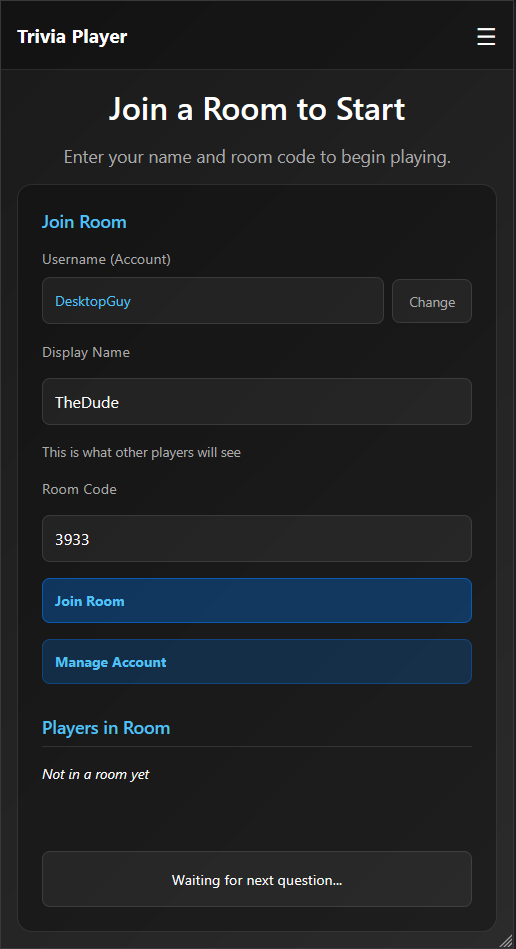
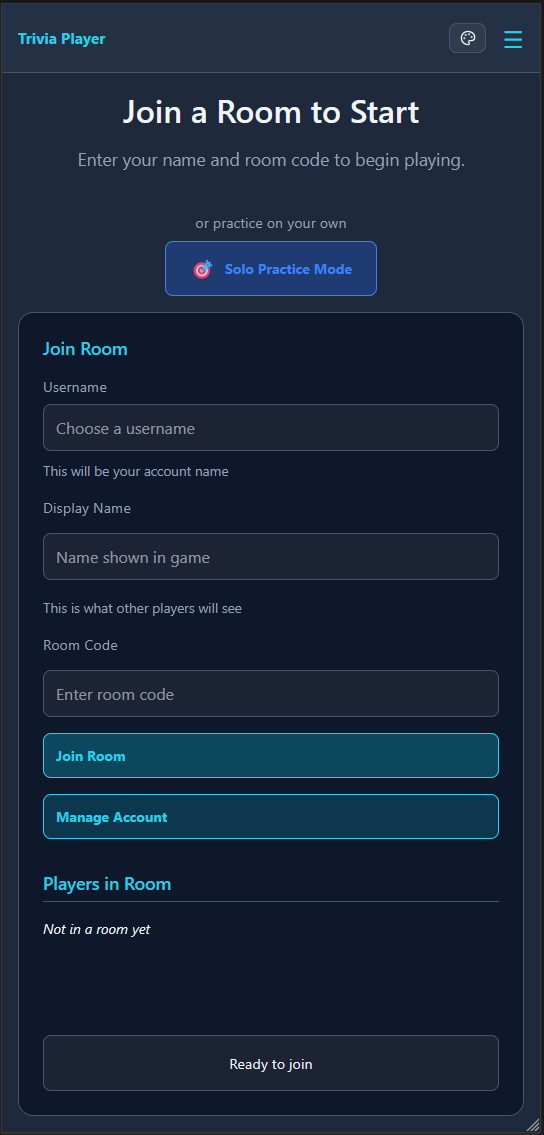
docs: Update README and About panel for v5.4.4 features
- Update README file structure with new controllers, routes, services, composables
- Add Auto-Mode Timer System features to For Presenters section
- Add Solo Play Mode features to For Players section
- Add Quiz Visibility Controls and Timer Settings to For Administrators
- Remove "Timer-based questions" from Future Features (now implemented)
- Update AboutPanel with v5.2-v5.4 features (2FA, Question Bank, Auto-Mode, Solo Play)
- Add 11 new screenshots (question-bank, user-management, 2FA-login, live-standings,
  confirmation-modal, desktop-player-page, player-countdown, player-standings,
  theme-selection, solo-mode-landing, solo-mode-playing)
- Update existing screenshots with fresh captures
- Add cache busting version parameter (v=202602) to all screenshot references

diff --git a/app/src/components/admin/AboutPanel.vue b/app/src/components/admin/AboutPanel.vue
@@ -15,15 +15,16 @@
         <ul>
           <li><AppIcon name="check" size="sm" class="feature-check" /> Vue 3 modern interface</li>
           <li><AppIcon name="check" size="sm" class="feature-check" /> Real-time quiz presentations</li>
+          <li><AppIcon name="check" size="sm" class="feature-check" /> Auto-Mode with server-side timers</li>
+          <li><AppIcon name="check" size="sm" class="feature-check" /> Solo Play mode for self-study</li>
+          <li><AppIcon name="check" size="sm" class="feature-check" /> Question Bank with tags</li>
+          <li><AppIcon name="check" size="sm" class="feature-check" /> Duplicate detection & merge</li>
           <li><AppIcon name="check" size="sm" class="feature-check" /> Live leaderboards & rankings</li>
           <li><AppIcon name="check" size="sm" class="feature-check" /> Multi-admin support with isolation</li>
-          <li><AppIcon name="check" size="sm" class="feature-check" /> Player connection monitoring</li>
-          <li><AppIcon name="check" size="sm" class="feature-check" /> Player authentication & accounts</li>
-          <li><AppIcon name="check" size="sm" class="feature-check" /> Excel bulk import</li>
-          <li><AppIcon name="check" size="sm" class="feature-check" /> Session resumption</li>
+          <li><AppIcon name="check" size="sm" class="feature-check" /> Two-factor authentication (2FA)</li>
+          <li><AppIcon name="check" size="sm" class="feature-check" /> Session export (CSV)</li>
+          <li><AppIcon name="check" size="sm" class="feature-check" /> Excel bulk import with review</li>
           <li><AppIcon name="check" size="sm" class="feature-check" /> Mobile-optimized interface</li>
-          <li><AppIcon name="check" size="sm" class="feature-check" /> Spectator display mode</li>
-          <li><AppIcon name="check" size="sm" class="feature-check" /> Auto-reveal when all answer</li>
           <li><AppIcon name="check" size="sm" class="feature-check" /> Automatic database migrations</li>
         </ul>
       </div>
@@ -81,10 +82,10 @@
         TriviaForge is a modern, real-time trivia game platform designed for educators, event organizers, and trivia enthusiasts. It enables interactive quiz sessions with instant feedback, live leaderboards, and comprehensive player analytics.
       </p>
       <p>
-        With features like session resumption, user authentication, player connection monitoring, and mobile-optimized interfaces, TriviaForge provides a seamless experience for presenters and players. Whether you're running classroom quizzes, corporate events, or casual game nights, TriviaForge adapts to your needs.
+        With features like Auto-Mode (server-side timers with pause/resume), Solo Play for self-study, a centralized Question Bank with tagging and duplicate detection, session export, and two-factor authentication, TriviaForge provides a complete quiz management solution. Whether you're running classroom quizzes, corporate events, or casual game nights, TriviaForge adapts to your needs.
       </p>
       <p>
-        Built with modern web technologies including Vue 3, Vite, Node.js, Socket.IO for real-time communication, and PostgreSQL for robust data management, TriviaForge ensures reliability, performance, and data integrity. The v5.x series introduces multi-admin support with session isolation, automatic database migrations, and seamless upgrades between versions.
+        Built with modern web technologies including Vue 3, Vite, Node.js, Socket.IO for real-time communication, and PostgreSQL for robust data management, TriviaForge ensures reliability, performance, and data integrity. The v5.x series introduces multi-admin support, automatic database migrations, Question Bank management, Auto-Mode timer system, and Solo Play mode.
       </p>
     </div>
 

diff --git a/README.md b/README.md
@@ -16,20 +16,22 @@ A production-ready, real-time interactive trivia game platform built with **Vue 
 - 🐳 **Easy Deploy**: Single-command Docker Compose setup with automatic database initialization
 
 <!-- Screenshot Placeholder: Landing Page -->
-![Landing Page](screenshots/landing-page.png?v=202511)
+![Landing Page](screenshots/landing-page.png?v=202602)
 
 <!-- Screenshot Placeholder: Main Game Interface -->
-![TriviaForge Main Interface](screenshots/main-interface.png?v=202511)
+![TriviaForge Main Interface](screenshots/main-interface.png?v=202602)
 
 ## Features
 
 ### For Administrators
 - **Quiz Management**: Create, edit, and delete custom quizzes with an intuitive interface
+- **Quiz Visibility Controls**: Toggle quizzes for Live mode (presenter-led) and/or Solo mode (self-study) with visual badges
 - **Question Bank**: Centralized question management across all quizzes with search, filter, and archive capabilities
 - **Tag System**: Organize questions with customizable color-coded tags
 - **Duplicate Detection**: Find and manage duplicate questions with similarity-based detection and merge tools
 - **Question Types**: Support for Multiple Choice and True/False questions
 - **Image Support**: Add images to questions via file upload or external URL
+- **Timer Settings**: Configure per-quiz question timers and reveal delays for auto-mode
 - **Drag-and-Drop Reordering**: Reorganize questions and answer choices with visual drag-and-drop or arrow buttons
 - **Smart Answer Tracking**: Correct answer automatically updates when reordering choices
 - **Excel Import**: Bulk import quizzes from professionally formatted Excel templates with duplicate review (supports 2-10 answer choices)
@@ -42,10 +44,34 @@ A production-ready, real-time interactive trivia game platform built with **Vue 
 - **Account Settings**: Update email and password from any admin page
 
 <!-- Screenshot Placeholder: Admin Dashboard -->
-![Admin Dashboard](screenshots/admin-dashboard.png?v=202511)
+![Admin Dashboard](screenshots/admin-dashboard.png?v=202602)
+
+<table>
+  <tr>
+    <td width="33%" align="center">
+      <img src="screenshots/question-bank.png?v=202602" alt="Question Bank" width="100%"/>
+      <br/>
+      <em>Question Bank</em>
+    </td>
+    <td width="33%" align="center">
+      <img src="screenshots/user-management.png?v=202602" alt="User Management" width="100%"/>
+      <br/>
+      <em>User Management</em>
+    </td>
+    <td width="33%" align="center">
+      <img src="screenshots/2FA-login.png?v=202602" alt="Two-Factor Authentication" width="100%"/>
+      <br/>
+      <em>Two-Factor Authentication</em>
+    </td>
+  </tr>
+</table>
 
 ### For Presenters
 - **Live Quiz Control**: Present questions, reveal answers, and navigate through quizzes in real-time
+- **Auto-Mode Timer System**: Server-side timers run independently of presenter's browser with pause/resume support
+- **Configurable Timers**: Question timer (10-120 seconds) and reveal delay (2-30 seconds) per quiz or global defaults
+- **Auto-Advance**: Automatically advance to next question after reveal delay expires
+- **Smart Timer Skip**: All players answered detection skips remaining question timer automatically
 - **Player Management**: See connected players with live status indicators, organized by connection status (connected/away/disconnected)
 - **Real-time Answer Progress**: Track how many players have answered with percentage and animated progress bar
 - **All Players Answered Notification**: Visual notification when all active players have submitted answers
@@ -59,14 +85,21 @@ A production-ready, real-time interactive trivia game platform built with **Vue 
 - **Class Performance Analytics**: View overall class statistics (total correct/incorrect, class accuracy percentage, average performance)
 
 <!-- Screenshot Placeholder: Presenter View -->
-![Presenter View](screenshots/presenter-view.png?v=202511)
+![Presenter View](screenshots/presenter-view.png?v=202602)
+
+![Live Standings](screenshots/live-standings.png?v=202602)
 
 ### For Players
 - **Mobile-Optimized Interface**: Responsive design that works seamlessly on all devices (HTTP and HTTPS)
+- **Solo Play Mode**: Self-study mode without a presenter - browse solo-enabled quizzes and play at your own pace
+- **Per-Question Timer**: Countdown timer for each question with visual progress bar
+- **Immediate Feedback**: See correct/incorrect status immediately after answering in solo mode
+- **Results Summary**: Detailed breakdown of performance with per-question review after completing a quiz
+- **Guest Solo Play**: No account required - play solo quizzes as a guest
 - **Persistent Player Identity**: UUID-based PlayerID stored in localStorage for seamless reconnection across sessions
 - **Wake Lock Support**: Keeps mobile screens on during games (Chrome 84+, Safari 16.4+) with visual indicator
 - **Enhanced Connection Stability**: Infinite reconnection attempts with intelligent page visibility detection (30-second debounce)
-- **Real-time Feedback**: Instant answer submission and result display
+- **Real-time Feedback**: Instant answer submission and result display in live games
 - **Answer Locking**: Prevents re-answering after submission (even on reconnection)
 - **Smart Reconnection**: Automatically restore progress when rejoining with full state preservation via RoomSessionID
 - **Progress Tracking**: Comprehensive modal showing detailed session statistics and question-by-question history with correct/incorrect/pending status (persists across disconnections)
@@ -79,19 +112,64 @@ A production-ready, real-time interactive trivia game platform built with **Vue 
 <table>
   <tr>
     <td width="33%" align="center">
-      <img src="screenshots/player-mobile-waiting.png?v=202511" alt="Player Waiting" width="100%"/>
+      <img src="screenshots/player-mobile-waiting.png?v=202602" alt="Player Waiting" width="100%"/>
       <br/>
       <em>Player Lobby</em>
     </td>
     <td width="33%" align="center">
-      <img src="screenshots/player-questions.png?v=202511" alt="Player Answering" width="100%"/>
+      <img src="screenshots/player-questions.png?v=202602" alt="Player Answering" width="100%"/>
       <br/>
       <em>Answering Questions</em>
     </td>
     <td width="33%" align="center">
-      <img src="screenshots/player-mobile.png?v=202511" alt="Player Overview" width="100%"/>
+      <img src="screenshots/confirmation-modal.png?v=202602" alt="Answer Confirmation" width="100%"/>
       <br/>
-      <em>Interface Overview</em>
+      <em>Answer Confirmation</em>
+    </td>
+  </tr>
+  <tr>
+    <td width="33%" align="center">
+      <img src="screenshots/desktop-player-page.png?v=202602" alt="Desktop Player View" width="100%"/>
+      <br/>
+      <em>Desktop Player View</em>
+    </td>
+    <td width="33%" align="center">
+      <img src="screenshots/player-countdown.png?v=202602" alt="Countdown Timer" width="100%"/>
+      <br/>
+      <em>Countdown Timer</em>
+    </td>
+    <td width="33%" align="center">
+      <img src="screenshots/player-standings.png?v=202602" alt="Player Standings" width="100%"/>
+      <br/>
+      <em>Player Standings</em>
+    </td>
+  </tr>
+  <tr>
+    <td width="33%" align="center">
+      <img src="screenshots/theme-selection.png?v=202602" alt="Theme Selection" width="100%"/>
+      <br/>
+      <em>Theme Selection</em>
+    </td>
+    <td width="33%" align="center">
+      <img src="screenshots/player-mobile.png?v=202602" alt="Player Overview" width="100%"/>
+      <br/>
+      <em>Mobile Interface</em>
+    </td>
+    <td width="33%" align="center">
+      <img src="screenshots/solo-mode-landing.png?v=202602" alt="Solo Mode Landing" width="100%"/>
+      <br/>
+      <em>Solo Mode Landing</em>
+    </td>
+  </tr>
+  <tr>
+    <td width="33%" align="center">
+      <img src="screenshots/solo-mode-playing.png?v=202602" alt="Solo Mode Playing" width="100%"/>
+      <br/>
+      <em>Solo Mode Playing</em>
+    </td>
+    <td width="33%" align="center">
+    </td>
+    <td width="33%" align="center">
     </td>
   </tr>
 </table>
@@ -102,7 +180,7 @@ A production-ready, real-time interactive trivia game platform built with **Vue 
 - **Reveal Animations**: Engaging answer reveals with visual feedback
 
 <!-- Screenshot Placeholder: Display/Spectator View -->
-![Spectator Display](screenshots/spectator-display.png?v=202511)
+![Spectator Display](screenshots/spectator-display.png?v=202602)
 
 ## Technology Stack
 
@@ -330,7 +408,7 @@ docker-compose up -d          # Recreate containers if needed
 4. Review and save the imported quiz
 
 <!-- Screenshot Placeholder: Quiz Creation -->
-![Quiz Creation Interface](screenshots/quiz-creation.png?v=202511)
+![Quiz Creation Interface](screenshots/quiz-creation.png?v=202602)
 
 ### Running a Live Session
 
@@ -356,7 +434,7 @@ docker-compose up -d          # Recreate containers if needed
    - Session data is automatically saved
 
 <!-- Screenshot Placeholder: Live Session Flow -->
-![Live Session in Progress](screenshots/live-session.png?v=202511)
+![Live Session in Progress](screenshots/live-session.png?v=202602)
 
 ### Resuming an Interrupted Session
 
@@ -370,7 +448,7 @@ If a session is interrupted (server restart, connection loss, etc.):
 6. Continue from where you left off
 
 <!-- Screenshot Placeholder: Resume Session -->
-![Resume Session Feature](screenshots/resume-session.png?v=202511)
+![Resume Session Feature](screenshots/resume-session.png?v=202602)
 
 ### Viewing Past Sessions
 
@@ -385,7 +463,7 @@ All completed and interrupted sessions are saved and can be reviewed:
    - Individual question results
 
 <!-- Screenshot Placeholder: Past Sessions -->
-![Past Sessions History](screenshots/past-sessions.png?v=202511)
+![Past Sessions History](screenshots/past-sessions.png?v=202602)
 
 ## Testing
 
@@ -456,16 +534,19 @@ For comprehensive testing documentation, see:
 ```
 TriviaForge/
 ├── app/
-│   ├── src/              # Backend source (NEW v4.0.0 - Modular Architecture)
+│   ├── src/              # Backend source (v4.0.0+ Modular Architecture)
 │   │   ├── config/       # Configuration modules
-│   │   │   ├── constants.js # Application constants
-│   │   │   ├── database.js  # PostgreSQL connection pool
-│   │   │   └── environment.js # Environment variable access
+│   │   │   ├── constants.js    # Application constants
+│   │   │   ├── database.js     # PostgreSQL connection pool
+│   │   │   ├── environment.js  # Environment variable access
+│   │   │   └── version.js      # Centralized version management
 │   │   ├── controllers/  # REST API controllers
 │   │   │   ├── auth.controller.js
 │   │   │   ├── quiz.controller.js
 │   │   │   ├── questionBank.controller.js
 │   │   │   ├── session.controller.js
+│   │   │   ├── solo.controller.js    # Solo play REST API
+│   │   │   ├── tag.controller.js     # Tag management
 │   │   │   └── user.controller.js
 │   │   ├── middleware/   # Express middleware
 │   │   │   ├── auth.js         # Authentication middleware
@@ -475,13 +556,20 @@ TriviaForge/
 │   │   │   ├── quiz.routes.js
 │   │   │   ├── questionBank.routes.js
 │   │   │   ├── session.routes.js
+│   │   │   ├── solo.routes.js        # Solo play routes
+│   │   │   ├── tag.routes.js         # Tag routes
 │   │   │   └── user.routes.js
 │   │   ├── services/     # Business logic services
-│   │   │   ├── room.service.js    # Live room state management
-│   │   │   ├── session.service.js # Session persistence
-│   │   │   └── quiz.service.js    # Quiz data access
+│   │   │   ├── autoMode.service.js   # Server-side auto-mode timer engine
+│   │   │   ├── export.service.js     # CSV export functionality
+│   │   │   ├── quiz.service.js       # Quiz data access
+│   │   │   ├── room.service.js       # Live room state management
+│   │   │   ├── session.service.js    # Session persistence
+│   │   │   └── totp.service.js       # Two-factor authentication
 │   │   └── utils/        # Utility modules
+│   │       ├── constants.js   # Shared constants
 │   │       ├── errors.js      # Custom error classes
+│   │       ├── helpers.js     # Helper functions
 │   │       ├── responses.js   # API response helpers
 │   │       ├── similarity.js  # Duplicate detection algorithm
 │   │       └── validators.js  # Input validation
@@ -495,29 +583,40 @@ TriviaForge/
 │   │   │   ├── PresenterPage.vue
 │   │   │   ├── PlayerPage.vue
 │   │   │   ├── PlayerManagePage.vue
-│   │   │   └── DisplayPage.vue
+│   │   │   ├── DisplayPage.vue
+│   │   │   └── SoloPlayPage.vue      # Solo play mode
 │   │   ├── components/   # Reusable Vue components
 │   │   │   ├── admin/    # Admin panel components (Question Bank, Tags, Duplicates)
 │   │   │   ├── common/   # Shared components (Modal, Button, AppIcon, etc.)
 │   │   │   ├── modals/   # Modal components
-│   │   │   ├── player/   # Player page components
+│   │   │   ├── player/   # Player page components (CountdownTimer, etc.)
 │   │   │   └── presenter/ # Presenter page components
 │   │   ├── stores/       # Pinia state stores
 │   │   │   ├── auth.js
 │   │   │   ├── ui.js
-│   │   │   └── game.js
+│   │   │   ├── player.js
+│   │   │   ├── question.js
+│   │   │   ├── quiz.js
+│   │   │   └── room.js
 │   │   ├── composables/  # Vue composables
-│   │   │   ├── useSocket.js # Socket.IO integration (w/ PlayerID)
-│   │   │   └── useApi.js    # Axios wrapper (w/ CSRF)
+│   │   │   ├── useApi.js         # Axios wrapper (w/ CSRF)
+│   │   │   ├── useAuth.js        # Authentication composable
+│   │   │   ├── useLocalStorage.js # LocalStorage wrapper
+│   │   │   ├── useSocket.js      # Socket.IO integration (w/ PlayerID)
+│   │   │   ├── useSoloGame.js    # Solo play state management
+│   │   │   ├── useTheme.js       # Theme management
+│   │   │   └── useWakeLock.js    # Screen wake lock
 │   │   ├── assets/       # Static assets (CSS, images)
 │   │   └── main.css      # Global styles
 │   ├── init/             # Database initialization SQL scripts
-│   │   ├── 01-tables.sql # PostgreSQL schema
+│   │   ├── 01-tables.sql              # PostgreSQL schema
 │   │   ├── 02-migrate_timestamps.sql
-│   │   ├── ...           # Additional migrations (03-08)
-│   │   ├── 09-question-bank.sql      # Question Bank & tags
+│   │   ├── ...                        # Additional migrations (03-08)
+│   │   ├── 09-question-tags.sql       # Question Bank & tags
 │   │   ├── 10-duplicate-detection.sql # Text hash for duplicates
-│   │   └── 11-ignored-duplicate-pairs.sql # Ignored pairs
+│   │   ├── 11-ignored-duplicate-pairs.sql # Ignored pairs
+│   │   ├── 12-auto-mode-solo-play.sql # Auto-mode & solo play
+│   │   └── 13-fix-solo-guest-participants.sql # Guest participant fix
 │   ├── testing/          # Automated testing suite
 │   │   ├── README.md     # Testing suite overview
 │   │   ├── TESTING.md    # Complete testing guide
@@ -760,7 +859,6 @@ We welcome contributions from the community! Please read our [CONTRIBUTING.md](C
 
 **Under Consideration:**
 - [ ] Advanced leaderboard and scoring systems
-- [ ] Timer-based questions with countdown
 - [ ] Team mode for collaborative play
 - [ ] PDF export with proper formatting
 - [ ] Email verification for admin accounts
